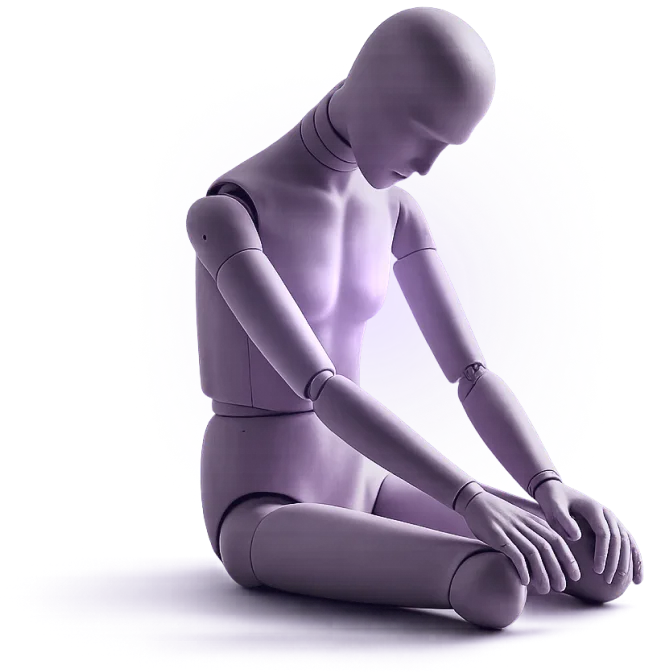
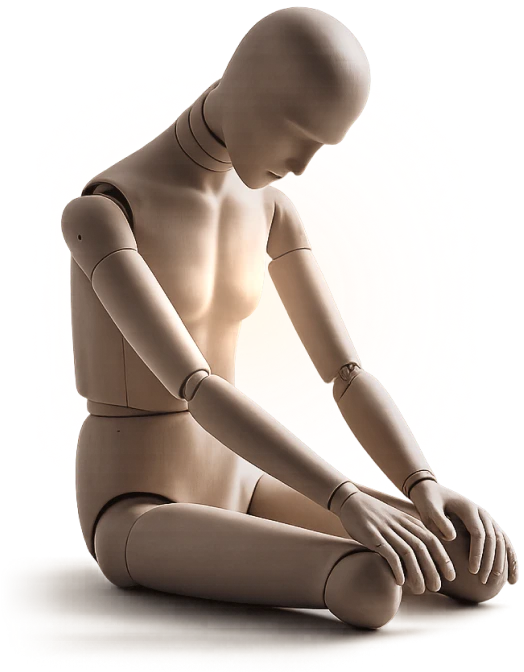
fix: ajustes de UI no header, hero, boneco e cards do processo
Remove badge de localizacao do hero, oculta nome textual do navbar
(mantendo so a logo), atualiza a ilustracao da secao "quem cuida de
voce" para a nova paleta e recentraliza as ilustracoes dos cards de
"como funciona" no desktop. Inclui tambem limpeza tecnica pendente
(remocao de codigo morto, PNGs substituidos por WEBP, robots/sitemap,
config do eslint).

diff --git a/app/privacidade/page.tsx b/app/privacidade/page.tsx
@@ -1,4 +1,5 @@
 import { Metadata } from "next";
+import Link from "next/link";
 
 export const metadata: Metadata = {
   title: "Política de Privacidade — Jacqueline Borges",
@@ -17,7 +18,7 @@ export default function Privacidade() {
           <section style={{ marginBottom: "2.5rem" }}>
             <h2>1. Introdução</h2>
             <p>
-              Jacqueline Borges ("nós", "nosso" ou "Jacqueline") opera o site jacquelineborges.com.br ("Serviço").
+              Jacqueline Borges (“nós”, “nosso” ou “Jacqueline”) opera o site jacquelineborges.com.br (“Serviço”).
             </p>
             <p>
               Esta página informa você sobre nossas políticas de privacidade e como tratamos seus dados pessoais quando você visita nosso site e/ou nos contata.
@@ -111,7 +112,7 @@ export default function Privacidade() {
             <ul style={{ marginLeft: "1.5rem", marginBottom: "1rem" }}>
               <li><strong>Acessar</strong> seus dados pessoais</li>
               <li><strong>Corrigir</strong> dados incorretos ou incompletos</li>
-              <li><strong>Deletar</strong> seus dados ("direito ao esquecimento")</li>
+              <li><strong>Deletar</strong> seus dados (“direito ao esquecimento”)</li>
               <li><strong>Portabilidade:</strong> Receber dados em formato estruturado</li>
               <li><strong>Revogar Consentimento:</strong> A qualquer momento</li>
               <li><strong>Oposição:</strong> Ao processamento de dados para fins específicos</li>
@@ -205,7 +206,7 @@ export default function Privacidade() {
         {/* Footer link */}
         <div style={{ marginTop: "4rem", paddingTop: "2rem", borderTop: "1px solid var(--color-line)", textAlign: "center", color: "var(--color-brand-muted)", fontSize: "0.9rem" }}>
           <p>
-            <a href="/" style={{ color: "var(--color-purple)" }}>← Voltar para homepage</a>
+            <Link href="/" style={{ color: "var(--color-purple)" }}>← Voltar para homepage</Link>
           </p>
         </div>
       </div>

diff --git a/components/Hero.tsx b/components/Hero.tsx
@@ -52,34 +52,14 @@ export default function Hero() {
           zIndex: 2,
         }}
       >
-        {/* Badge + CRP */}
+        {/* CRP badge */}
         <motion.div
           initial={{ opacity: 0, y: 10 }}
           animate={{ opacity: 1, y: 0 }}
           transition={{ duration: 0.55, delay: 0.15 }}
-          className="hero-badge-row hero-badge-wrap"
+          className="hero-badge-wrap"
           style={{ display: "flex", alignItems: "center", gap: ".7rem", marginBottom: "2rem" }}
         >
-          <motion.span
-            initial={{ scale: 0.9 }}
-            animate={{ scale: 1 }}
-            transition={{ duration: 0.4, delay: 0.2, ease: [0.34, 1.2, 0.64, 1] }}
-            style={{
-              display: "inline-flex", alignItems: "center", gap: ".5rem",
-              padding: ".4rem .9rem",
-              background: "rgba(255,255,255,0.8)",
-              backdropFilter: "blur(12px)", WebkitBackdropFilter: "blur(12px)",
-              border: "1px solid rgba(255,255,255,0.7)", borderRadius: 999,
-              boxShadow: "0 4px 18px rgba(80,70,50,.09)",
-              fontSize: ".76rem", color: "var(--color-brand-muted)", fontWeight: 500,
-            }}
-          >
-            <span style={{ width: 6, height: 6, borderRadius: "50%", background: "var(--color-sage)", flexShrink: 0, boxShadow: "0 0 0 3px rgba(87,90,74,.22)" }} />
-            Online · todo o Brasil · Presencial · Araruama e Rio das Ostras, RJ
-          </motion.span>
-
-          <span className="hero-badge-divider" style={{ width: 1, height: 13, background: "rgba(150,120,90,.3)", borderRadius: 1, flexShrink: 0 }} />
-
           <motion.span
             initial={{ opacity: 0 }}
             animate={{ opacity: 1 }}

diff --git a/app/globals.css b/app/globals.css
@@ -167,12 +167,6 @@ p { max-width: 68ch; }
 
 /* ── Hero ───────────────────────────────────── */
 @media (min-width: 769px) {
-  .hero-bg-desk {
-    background-image: url('/desk.png');
-    background-size: cover;
-    background-repeat: no-repeat;
-    background-position: center top;
-  }
   .hero-content-wrap {
     padding-top: clamp(5.5rem, 8vw, 7rem);
   }
@@ -195,6 +189,13 @@ p { max-width: 68ch; }
 @media (min-width: 769px) {
   .ident-img-wrap {
     margin-left: -6rem;
+  }
+}
+
+/* ── HowItWorks — recenter illustration in card (desktop only) ──── */
+@media (min-width: 769px) {
+  .how-ill-shift {
+    transform: translateY(-12%);
   }
 }
 .ident-section-clip { overflow: hidden; }
@@ -344,10 +345,6 @@ textarea.input { resize: vertical; min-height: 100px; }
 
   /* Footer bottom row — stack */
   .footer-bottom { flex-direction: column !important; align-items: flex-start !important; gap: .4rem !important; }
-
-  /* Hero badge row — stack on mobile */
-  .hero-badge-row { flex-direction: column !important; align-items: flex-start !important; gap: .45rem !important; }
-  .hero-badge-divider { display: none !important; }
 
   /* Global button min touch target */
   .btn { min-height: 48px; }

diff --git a/components/Navbar.tsx b/components/Navbar.tsx
@@ -50,8 +50,10 @@ export default function Navbar() {
     >
       <div style={{ display: "flex", alignItems: "center", justifyContent: "space-between", padding: "0 clamp(1rem, 2.5vw, 1.8rem)" }}>
         <a href="#" style={{ display: "flex", alignItems: "center", gap: ".6rem", fontFamily: "var(--font-display)", fontSize: "1.35rem", fontWeight: 600, letterSpacing: ".02em", color: "var(--color-brand)" }}>
-          <Image src="/logo-mark.webp" alt="" width={34} height={34} priority style={{ display: "block" }} />
-          Jacqueline <span style={{ color: "var(--color-purple)", fontStyle: "italic" }}>Borges</span>
+          <Image src="/logo-mark.webp" alt="Jacqueline Borges" width={34} height={34} priority style={{ display: "block" }} />
+          <span style={{ display: "none" }}>
+            Jacqueline <span style={{ color: "var(--color-purple)", fontStyle: "italic" }}>Borges</span>
+          </span>
         </a>
 
         <nav className="desk-only" style={{ display: "flex", alignItems: "center", gap: "2.2rem" }}>

diff --git a/app/sitemap.ts b/app/sitemap.ts
@@ -1,0 +1,20 @@
+import type { MetadataRoute } from "next";
+
+const siteUrl = process.env.NEXT_PUBLIC_SITE_URL ?? "http://localhost:3000";
+
+export default function sitemap(): MetadataRoute.Sitemap {
+  return [
+    {
+      url: siteUrl,
+      lastModified: new Date(),
+      changeFrequency: "monthly",
+      priority: 1,
+    },
+    {
+      url: `${siteUrl}/privacidade`,
+      lastModified: new Date(),
+      changeFrequency: "yearly",
+      priority: 0.3,
+    },
+  ];
+}

diff --git a/components/sections/HowItWorks.tsx b/components/sections/HowItWorks.tsx
@@ -417,7 +417,7 @@ export default function HowItWorks() {
                   transition={{ duration: 0.5, ease: [0.25, 0.46, 0.45, 0.94] }}
                   style={{ width: "100%", maxHeight: 260, position: "relative", zIndex: 1 }}
                 >
-                  {current.ill}
+                  <div className="how-ill-shift">{current.ill}</div>
                 </motion.div>
               </AnimatePresence>
             </motion.div>

diff --git a/components/sections/About.tsx b/components/sections/About.tsx
@@ -130,7 +130,7 @@ export default function About() {
               }}
             >
               <p style={{ fontFamily: "var(--font-display)", fontStyle: "italic", fontSize: "1rem", color: "var(--color-brand)", margin: 0, lineHeight: 1.4 }}>
-                "Ninguém precisa guardar tudo sozinho."
+                “Ninguém precisa guardar tudo sozinho.”
               </p>
             </motion.div>
 

diff --git a/components/InstagramFeed.tsx b/components/InstagramFeed.tsx
@@ -2,16 +2,6 @@
 import { useEffect } from "react";
 import { motion } from "framer-motion";
 
-declare global {
-  namespace JSX {
-    interface IntrinsicElements {
-      "behold-widget": React.DetailedHTMLProps<React.HTMLAttributes<HTMLElement>, HTMLElement> & {
-        "feed-id": string;
-      };
-    }
-  }
-}
-
 const FEED_ID = "SlfJGliHwJrCvNUEiGzP";
 
 export default function InstagramFeed() {

diff --git a/app/robots.ts b/app/robots.ts
@@ -1,0 +1,13 @@
+import type { MetadataRoute } from "next";
+
+const siteUrl = process.env.NEXT_PUBLIC_SITE_URL ?? "http://localhost:3000";
+
+export default function robots(): MetadataRoute.Robots {
+  return {
+    rules: {
+      userAgent: "*",
+      allow: "/",
+    },
+    sitemap: `${siteUrl}/sitemap.xml`,
+  };
+}

diff --git a/components/Footer.tsx b/components/Footer.tsx
@@ -1,6 +1,5 @@
 "use client";
 import Image from "next/image";
-import { motion } from "framer-motion";
 
 const links = [
   { href: "https://wa.me/5522992659191", label: "WhatsApp (22) 99265-9191" },
